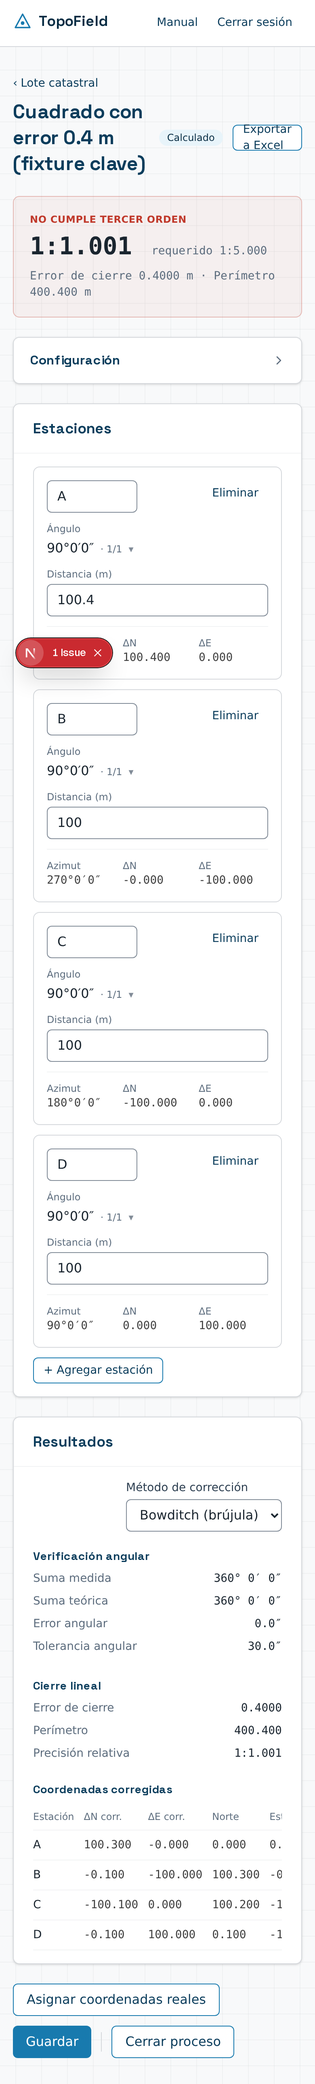
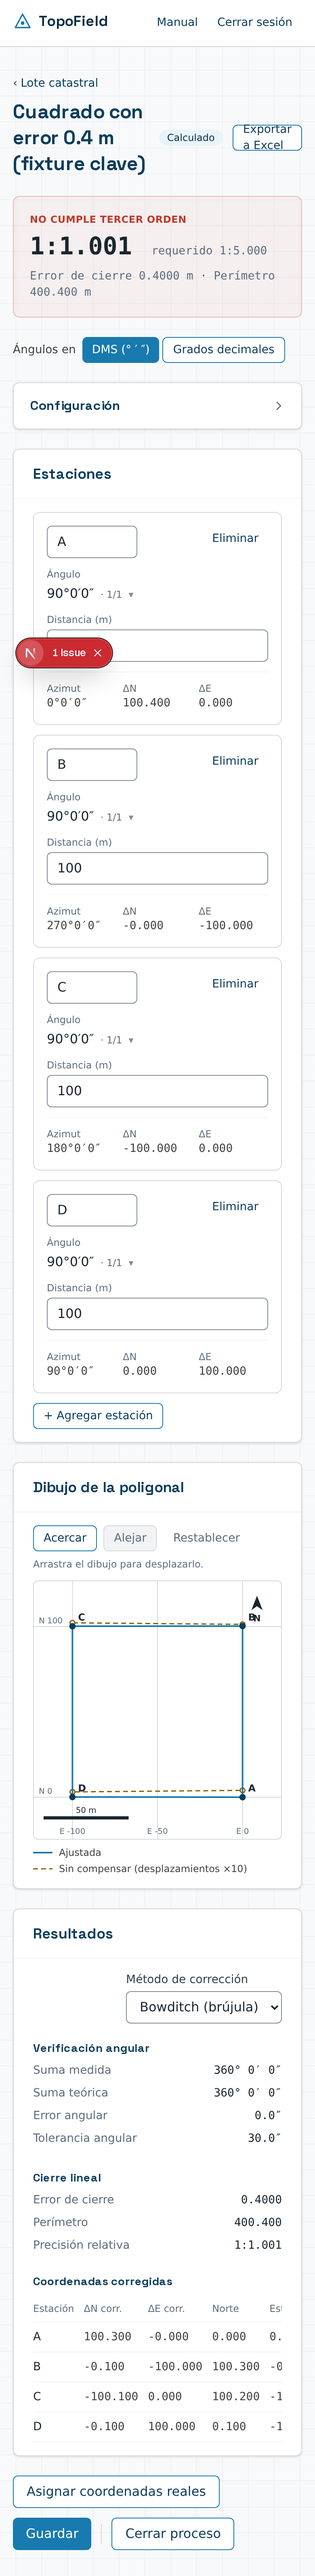
docs: el manual explica el dibujo de la poligonal y los ángulos en decimal
En las dos copias: el conmutador DMS / decimal en § 5.2 y § 5.3, el dibujo
con su factor de exageración en § 5.3 y su presencia en el informe en
§ 10.3. Captura nueva, la 20, con la cartera TT4. Capturas del editor de
poligonal regeneradas. Las medidas de CAPTURAS se sincronizan con sus PNG:
nueve estaban desfasadas, seis de ellas desde fases anteriores.

diff --git a/src/app/(app)/manual/page.tsx b/src/app/(app)/manual/page.tsx
@@ -385,6 +385,12 @@ export default function ManualPage() {
           punto de llegada.
         </p>
 
+        <p>
+          Arriba del formulario elige si tecleará los ángulos en{" "}
+          <strong>DMS</strong> o en <strong>grados decimales</strong> (ver
+          § 5.3).
+        </p>
+
         <Nota titulo="El orden de precisión es la decisión más importante del proceso">
           Define las tolerancias que se le exigirán al cierre. Al elegirlo, el
           formulario le muestra la tolerancia angular y la precisión relativa
@@ -440,6 +446,34 @@ export default function ManualPage() {
           cierre y el perímetro. El color lo resume, y el texto lo dice: verde
           cumple, rojo no cumple.
         </p>
+
+        <p>
+          <strong>Ángulos en DMS o en grados decimales.</strong> Bajo el
+          veredicto, el conmutador <strong>Ángulos en</strong> elige cómo
+          teclea los ángulos: en tres casillas (grados, minutos, segundos) o
+          en un solo campo de grados decimales. Afecta a las lecturas de las
+          estaciones, a los azimuts de partida y de llegada y al diálogo de
+          reasignación.
+        </p>
+
+        <ul className="ml-5 list-disc space-y-1">
+          <li>
+            Cambiar de formato <strong>no altera ningún valor</strong>: la
+            aplicación guarda los ángulos siempre en DMS y el decimal es solo
+            otra forma de verlos, con seis decimales.
+          </li>
+          <li>
+            Los ángulos se guardan a la <strong>décima de segundo</strong>. Si
+            teclea un decimal con más precisión, bajo el campo aparece cómo se
+            guardará —«Se guarda como 124°29′42″»—.
+          </li>
+          <li>
+            El formato se recuerda por proceso: al volver a abrirlo, aparece
+            como lo dejó. En un proceso cerrado el conmutador solo cambia la
+            vista.
+          </li>
+          <li>Resultados, informe y Excel muestran siempre DMS.</li>
+        </ul>
 
         <p>
           <strong>Configuración.</strong> Plegada cuando el proceso ya está
@@ -524,6 +558,45 @@ export default function ManualPage() {
         </Tabla>
 
         <p>Cambiar el método recalcula las coordenadas al instante.</p>
+
+        <p>
+          <strong>Dibujo de la poligonal.</strong> La poligonal a escala sobre
+          una grilla de coordenadas, con flecha de norte, barra de escala y el
+          amarre si lo tiene. Se actualiza en vivo mientras captura.
+        </p>
+
+        <Captura {...CAPTURAS.dibujoPoligonal} />
+
+        <ul className="ml-5 list-disc space-y-1">
+          <li>
+            En <strong>trazo continuo</strong>, la poligonal{" "}
+            <strong>ajustada</strong>.
+          </li>
+          <li>
+            En <strong>trazo discontinuo</strong>, la poligonal{" "}
+            <strong>sin compensar</strong>, con los desplazamientos{" "}
+            <strong>exagerados</strong> por el factor que indica la leyenda
+            (×100 en la imagen). En una cerrada no llega a cerrar: el hueco del
+            último vértice es el error de cierre.
+          </li>
+        </ul>
+
+        <Nota titulo="Por qué se exagera">
+          En un buen levantamiento el error de cierre es de centímetros sobre
+          cientos de metros: dibujado a escala real, ocupa menos de un píxel y
+          las dos poligonales se verían idénticas. El factor se elige solo —1,
+          2 o 5 × 10ⁿ— para que el mayor desplazamiento ocupe alrededor del 5 %
+          del dibujo, y nunca es menor que 1. Una abierta sin control no tiene
+          nada que compensar y no muestra trazo discontinuo.
+        </Nota>
+
+        <p>
+          Con <strong>Acercar</strong>, <strong>Alejar</strong> y{" "}
+          <strong>Restablecer</strong>, y arrastrando el dibujo, puede
+          acercarse a un vértice. La rueda del ratón no hace zoom, para no
+          interferir con el desplazamiento de la página. El factor de
+          exageración no cambia al acercarse.
+        </p>
 
         <h3 className="mt-4 text-lg font-semibold">5.4 Reasignar coordenadas</h3>
 
@@ -1259,7 +1332,8 @@ export default function ManualPage() {
 
         <p>
           El documento lleva portada con los datos del proyecto, índice, una
-          sección por proceso con sus resultados <strong>y su equipo</strong>,
+          sección por proceso con sus resultados <strong>y su equipo</strong>{" "}
+          —en las poligonales, con su dibujo—,
           el resumen consolidado de precisiones —con una columna de equipo—,
           sus observaciones y el registro de cierre. El equipo ya no es un
           dato del proyecto: cada sección imprime el que declaró su propio

diff --git a/src/app/(app)/manual/manual-data.ts b/src/app/(app)/manual/manual-data.ts
@@ -45,13 +45,13 @@ export const CAPTURAS = {
     src: "/manual/04-hub-proyecto.png",
     alt: "Hub del proyecto: ficha de datos arriba y la pestaña de procesos con su listado.",
     width: 2560,
-    height: 2618,
+    height: 3158,
   },
   configuracionProyecto: {
     src: "/manual/05-configuracion-proyecto.png",
     alt: "Pestaña de configuración del proyecto, con la edición de datos y los puntos de referencia.",
     width: 2560,
-    height: 4338,
+    height: 3590,
   },
   nuevaPoligonal: {
     src: "/manual/06-nueva-poligonal.png",
@@ -64,7 +64,7 @@ export const CAPTURAS = {
     alt: "Editor de poligonal completo: veredicto, configuración, tabla de estaciones y resultados.",
     pie: "El editor de una poligonal que no alcanza la precisión exigida.",
     width: 2560,
-    height: 2980,
+    height: 4692,
   },
   veredicto: {
     src: "/manual/08-veredicto.png",
@@ -76,13 +76,13 @@ export const CAPTURAS = {
     src: "/manual/09-proceso-cerrado.png",
     alt: "Editor de un proceso cerrado, en solo lectura y sin botones de guardado.",
     width: 2560,
-    height: 2904,
+    height: 4616,
   },
   procesoRechazado: {
     src: "/manual/10-proceso-rechazado.png",
     alt: "Editor de un proceso rechazado, también en solo lectura.",
     width: 2560,
-    height: 2904,
+    height: 4616,
   },
   nuevaNivelacion: {
     src: "/manual/11-nueva-nivelacion.png",
@@ -95,7 +95,7 @@ export const CAPTURAS = {
     alt: "Editor de nivelación completo: libreta, comprobación aritmética, cierre y cotas corregidas.",
     pie: "Circuito cerrado que cumple la tolerancia: el BM final corrige exacto a su cota conocida.",
     width: 2560,
-    height: 2774,
+    height: 2806,
   },
   nuevoLugar: {
     src: "/manual/13-nuevo-lugar.png",
@@ -107,19 +107,25 @@ export const CAPTURAS = {
     src: "/manual/14-editor-lugar.png",
     alt: "Editor del lugar: datos generales, umbrales y catálogo de puntos de control.",
     width: 2560,
-    height: 2916,
+    height: 3062,
   },
   panelAsentamientos: {
     src: "/manual/15-panel-asentamientos.png",
     alt: "Panel de análisis: lista de visitas, semáforo por punto, diferenciales y gráfica de evolución.",
     width: 2560,
-    height: 4958,
+    height: 5270,
+  },
+  dibujoPoligonal: {
+    src: "/manual/20-dibujo-poligonal.png",
+    alt: "Dibujo de la poligonal V10 de la cartera TT4: la ajustada en trazo continuo y la sin compensar exagerada ×100 en trazo discontinuo, con el hueco de cierre junto al vértice V10.",
+    width: 1884,
+    height: 1308,
   },
   editorVisita: {
     src: "/manual/16-editor-visita.png",
     alt: "Editor de visita con la tabla de lecturas y el cálculo en vivo de parcial, acumulado, velocidad y semáforo.",
     width: 2560,
-    height: 2184,
+    height: 3194,
   },
   nuevoInforme: {
     src: "/manual/18-nuevo-informe.png",
@@ -131,14 +137,14 @@ export const CAPTURAS = {
     src: "/manual/19-informe-imprimible.png",
     alt: "Informe maquetado para imprimir: portada con los datos del proyecto, índice, sección del proceso con sus resultados, resumen consolidado y registro de cierre.",
     width: 2560,
-    height: 3460,
+    height: 3544,
   },
   editorMovil: {
     src: "/manual/17-editor-movil.png",
     alt: "El editor en un teléfono: la tabla de estaciones se convierte en tarjetas apiladas.",
     pie: "En pantalla pequeña cada estación es una tarjeta, sin desplazamiento lateral.",
     width: 780,
-    height: 5242,
+    height: 6360,
     angosta: true,
   },
 } as const satisfies Record<string, Captura>;

diff --git a/docs/manual/README.md b/docs/manual/README.md
@@ -241,6 +241,9 @@ término proporcional en ppm (ISO 17123-4).
 
 Si el tipo es *abierta con control*, deberá indicar además el punto de llegada.
 
+Arriba del formulario elige si tecleará los ángulos en **DMS** o en **grados
+decimales** (ver [§ 5.3](#53-el-editor)).
+
 > **El orden de precisión es la decisión más importante del proceso.** Define
 > las tolerancias que se le exigirán al cierre. Al elegirlo, el formulario le
 > muestra la tolerancia angular y la precisión relativa mínima que implica:
@@ -274,6 +277,21 @@ orden de precisión exigido.
 
 Muestra la precisión alcanzada junto a la requerida, el error de cierre y el
 perímetro. El color lo resume: verde cumple, rojo no cumple.
+
+**Ángulos en DMS o en grados decimales.** Bajo el veredicto, el conmutador
+**Ángulos en** elige cómo teclea los ángulos: en tres casillas (grados, minutos,
+segundos) o en un solo campo de grados decimales. Afecta a las lecturas de las
+estaciones, a los azimuts de partida y de llegada y al diálogo de reasignación.
+
+- Cambiar de formato **no altera ningún valor**: la aplicación guarda los
+  ángulos siempre en DMS y el decimal es solo otra forma de verlos, con seis
+  decimales.
+- Los ángulos se guardan a la **décima de segundo**. Si teclea un decimal con
+  más precisión, bajo el campo aparece cómo se guardará —«Se guarda como
+  124°29′42″»—.
+- El formato se recuerda por proceso: al volver a abrirlo, aparece como lo
+  dejó. En un proceso cerrado el conmutador solo cambia la vista.
+- Resultados, informe y Excel muestran siempre DMS.
 
 **Configuración.** Plegada cuando el proceso ya está calculado. Ábrala para
 cambiar el nombre, el tipo, el punto de partida, el orden de precisión o los
@@ -328,6 +346,30 @@ Aquí elige el **método de corrección**:
 | **Crandall** | Mínimos cuadrados sobre las distancias, conservando los ángulos ajustados |
 
 Cambiar el método recalcula las coordenadas al instante.
+
+**Dibujo de la poligonal.** La poligonal a escala sobre una grilla de
+coordenadas, con flecha de norte, barra de escala y el amarre si lo tiene. Se
+actualiza en vivo mientras captura.
+
+![Dibujo de la poligonal V10, cartera TT4](../../public/manual/20-dibujo-poligonal.png)
+
+- En **trazo continuo**, la poligonal **ajustada**.
+- En **trazo discontinuo**, la poligonal **sin compensar**, con los
+  desplazamientos **exagerados** por el factor que indica la leyenda (×100 en
+  la imagen). En una cerrada no llega a cerrar: el hueco del último vértice
+  es el error de cierre.
+
+> **Por qué se exagera.** En un buen levantamiento el error de cierre es de
+> centímetros sobre cientos de metros: dibujado a escala real, ocupa menos de
+> un píxel y las dos poligonales se verían idénticas. El factor se elige solo
+> —1, 2 o 5 × 10ⁿ— para que el mayor desplazamiento ocupe alrededor del 5 %
+> del dibujo, y nunca es menor que 1. Una abierta sin control no tiene nada que
+> compensar y no muestra trazo discontinuo.
+
+Con **Acercar**, **Alejar** y **Restablecer**, y arrastrando el dibujo, puede
+acercarse a un vértice. La rueda del ratón no hace zoom, para no interferir con
+el desplazamiento de la página. El factor de exageración no cambia al
+acercarse.
 
 ### 5.4 Reasignar coordenadas
 
@@ -805,7 +847,8 @@ navegador: elija «Guardar como PDF» como destino.
 ![Informe imprimible](../../public/manual/19-informe-imprimible.png)
 
 El documento lleva portada con los datos del proyecto, índice, una sección
-por proceso con sus resultados **y su equipo**, el resumen consolidado de
+por proceso con sus resultados **y su equipo** —en las poligonales, con su
+dibujo—, el resumen consolidado de
 precisiones —con una columna de equipo—, sus observaciones y el registro de
 cierre. El equipo ya no es un dato del proyecto: cada sección imprime el que
 declaró su propio proceso (en asentamientos, el de la visita más reciente).
